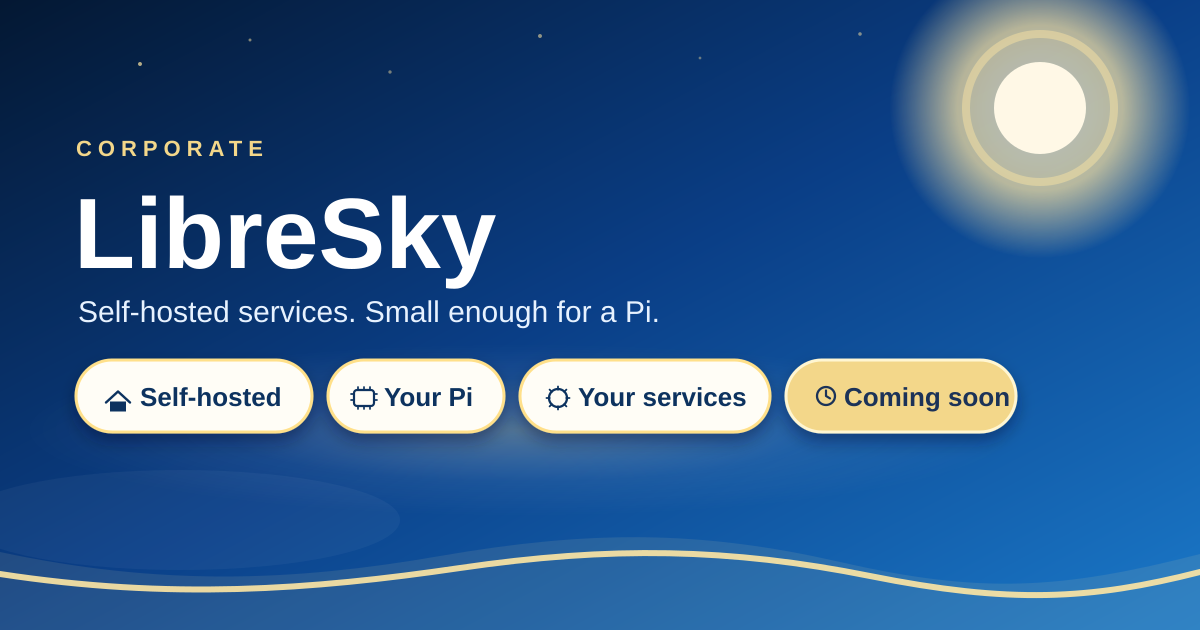
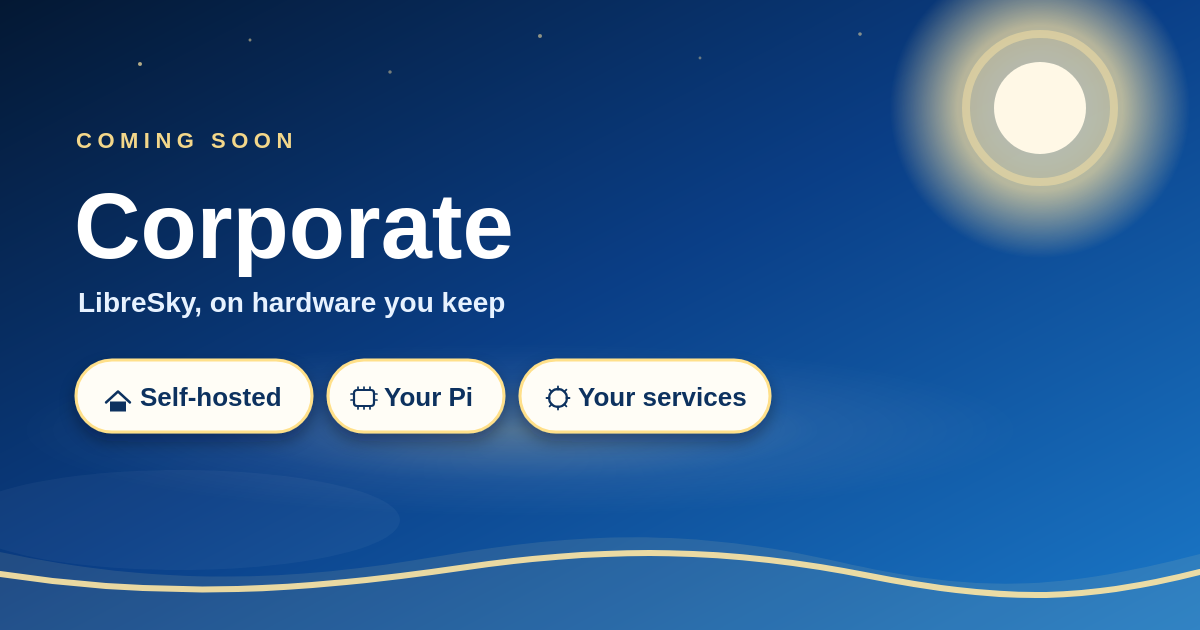
Update LibreSky

diff --git a/index.html b/index.html
@@ -108,6 +108,30 @@
     <a class="top-mark" href="#/" aria-label="LibreSky home">
       <svg class="mark" viewBox="0 0 32 32" aria-hidden="true"><rect width="32" height="32" rx="8" fill="#0085ff"/><circle cx="22" cy="11" r="3.2" fill="#fff"/><path d="M6 21c4-4 7-4 11 0s7 4 11 0" fill="none" stroke="#fff" stroke-width="2" stroke-linecap="round"/></svg>
     </a>
+    <div class="app-menu">
+      <button type="button" class="icon-btn menu-btn" id="app-menu-btn" aria-expanded="false" aria-controls="app-menu" aria-haspopup="true" aria-label="Menu" data-tip="Menu">
+        <svg class="ico" viewBox="0 0 24 24" aria-hidden="true"><path fill="none" stroke="currentColor" stroke-width="2" stroke-linecap="round" d="M4 7h16M4 12h16M4 17h16"/></svg>
+      </button>
+      <div id="app-menu" class="app-menu-pop" hidden>
+        <button type="button" id="menu-help" data-act="help">
+          <svg class="ico" viewBox="0 0 24 24" aria-hidden="true"><circle cx="12" cy="12" r="9" fill="none" stroke="currentColor" stroke-width="2"/><path fill="none" stroke="currentColor" stroke-width="2" stroke-linecap="round" d="M9.2 9.3a2.8 2.8 0 1 1 3.7 2.6c-.8.3-1.2.9-1.2 1.6V14.2"/><circle cx="11.7" cy="16.8" r="0.9" fill="currentColor"/></svg>
+          <span>Help</span>
+        </button>
+        <a id="menu-config" href="#/settings" data-nav="settings">
+          <svg class="ico" viewBox="0 0 24 24" aria-hidden="true"><path fill="currentColor" d="M4 7.2h6.1a2.4 2.4 0 0 0 4.6 0H20v2h-5.3a2.4 2.4 0 0 0-4.6 0H4v-2zm0 7.6h2.2a2.4 2.4 0 0 0 4.6 0H20v2H10.8a2.4 2.4 0 0 0-4.6 0H4v-2z"/></svg>
+          <span>Config</span>
+        </a>
+        <a id="menu-downloads" href="#/downloads" data-nav="downloads">
+          <svg class="ico" viewBox="0 0 24 24" aria-hidden="true"><path fill="none" stroke="currentColor" stroke-width="2" stroke-linecap="round" stroke-linejoin="round" d="M12 4v10M8.5 10.5 12 14l3.5-3.5M5 19h14"/></svg>
+          <span>Downloads</span>
+        </a>
+        <div class="app-menu-rule" role="separator"></div>
+        <a id="menu-support" href="#/support" data-nav="support">
+          <svg class="ico" viewBox="0 0 24 24" aria-hidden="true"><path fill="none" stroke="currentColor" stroke-width="2" stroke-linejoin="round" d="M12 20.2s-6.2-3.7-6.2-8.1A3.4 3.4 0 0 1 12 8.6a3.4 3.4 0 0 1 6.2 2.5c0 4.4-6.2 9.1-6.2 9.1z"/></svg>
+          <span>Support development</span>
+        </a>
+      </div>
+    </div>
     <button type="button" class="alpha" id="alpha-mark" aria-expanded="false">
       <span class="alpha-door" aria-hidden="true">
         <span class="alpha-door-string"></span>
@@ -127,13 +151,7 @@
       <h1 id="title">Home</h1>
     </div>
     <div class="head-actions">
-      <a class="tip" href="https://www.paypal.com/ncp/payment/4P85EQRES3RGU" target="_blank" rel="noopener noreferrer" aria-label="Buy me a coffee">
-        <svg class="ico" viewBox="0 0 24 24" aria-hidden="true"><path fill="currentColor" d="M6 6.2h9.2a.8.8 0 0 1 .8.8v.7h1.1a2.4 2.4 0 0 1 0 4.8H16v.6a4 4 0 0 1-4 4H9.2a4 4 0 0 1-4-4V7a.8.8 0 0 1 .8-.8zm10 2.2v2.6h1.1a1.3 1.3 0 0 0 0-2.6H16zM7.2 8.2v5.1a2.4 2.4 0 0 0 2.4 2.4h2.4a2.4 2.4 0 0 0 2.4-2.4V8.2H7.2zM5 19.2h14v1.6H5z"/></svg>
-        <span>Buy me a coffee</span>
-      </a>
       <button type="button" class="head-post" data-act="compose" aria-label="Post"><svg class="ico" viewBox="0 0 24 24" aria-hidden="true"><path fill="none" stroke="currentColor" stroke-width="2" stroke-linecap="round" d="M12 5v14M5 12h14"/></svg><span>Post</span></button>
-      <button type="button" class="head-help" id="head-help" data-act="help" aria-label="Help"><svg class="ico" viewBox="0 0 24 24" aria-hidden="true"><circle cx="12" cy="12" r="9" fill="none" stroke="currentColor" stroke-width="2"/><path fill="none" stroke="currentColor" stroke-width="2" stroke-linecap="round" d="M9.2 9.3a2.8 2.8 0 1 1 3.7 2.6c-.8.3-1.2.9-1.2 1.6V14.2"/><circle cx="11.7" cy="16.8" r="0.9" fill="currentColor"/></svg><span>Help</span></button>
-      <a class="head-config" id="head-config" href="#/settings" aria-label="Config"><svg class="ico" viewBox="0 0 24 24" aria-hidden="true"><path fill="currentColor" d="M4 7.2h6.1a2.4 2.4 0 0 0 4.6 0H20v2h-5.3a2.4 2.4 0 0 0-4.6 0H4v-2zm0 7.6h2.2a2.4 2.4 0 0 0 4.6 0H20v2H10.8a2.4 2.4 0 0 0-4.6 0H4v-2z"/></svg><span>Config</span></a>
     </div>
   </header>
   <div class="shell">
@@ -469,7 +487,7 @@ An AI account you save is asked from this browser.</p>
       <h3>Writing</h3>
       <p>The mic beside Post types what you say into the box. Tap it again to stop. Chrome and Edge can dictate.</p>
       <h3>Top of the page</h3>
-      <p>The LibreSky mark sits at the very left, with a red alpha beside it, then the back arrow, the section symbol, and the page name. Home, Search, and the other sections stay in the left sidebar. Buy me a coffee, Post, Help, and Config sit at the right edge. The symbol matches that section in the sidebar, such as the house for Home or the person for Profile. Every page except Home has a back arrow before the symbol. Back stays inside LibreSky and returns to the page you came from.</p>
+      <p>The LibreSky mark sits at the very left. The menu beside it holds Help, Config, and Downloads, and Support development sits under a line of its own. A red alpha sits next to that menu, then the back arrow, the section symbol, and the page name. Home, Search, and the other sections stay in the left sidebar. Post sits at the right edge. The symbol matches that section in the sidebar, such as the house for Home or the person for Profile. Every page except Home has a back arrow before the symbol. Back stays inside LibreSky and returns to the page you came from.</p>
       <a class="oss" href="https://github.com/TheWhiteWitchTM/LibreSky" target="_blank" rel="noopener noreferrer">
         <svg class="oss-mark" viewBox="0 0 24 24" aria-hidden="true"><path fill="currentColor" d="M12 2a10 10 0 0 0-3.16 19.49c.5.09.68-.22.68-.48v-1.7c-2.78.6-3.37-1.34-3.37-1.34-.45-1.16-1.11-1.47-1.11-1.47-.9-.62.07-.6.07-.6 1 .07 1.53 1.03 1.53 1.03.9 1.53 2.35 1.09 2.92.83.09-.65.35-1.09.63-1.34-2.22-.25-4.55-1.11-4.55-4.95 0-1.09.39-1.98 1.03-2.68-.1-.25-.45-1.27.1-2.64 0 0 .84-.27 2.75 1.02a9.56 9.56 0 0 1 5 0c1.91-1.29 2.75-1.02 2.75-1.02.55 1.37.2 2.39.1 2.64.64.7 1.03 1.59 1.03 2.68 0 3.85-2.34 4.7-4.57 4.95.36.31.68.92.68 1.85v2.74c0 .27.18.58.69.48A10 10 0 0 0 12 2z"/></svg>
         <span class="oss-copy">

diff --git a/js/app.js b/js/app.js
@@ -172,7 +172,7 @@ function applyA11y(prefs = a11yPrefs()) {
   else delete document.documentElement.dataset.reader;
 }
 
-const MORE_NAV = new Set(['feeds', 'feed', 'lists', 'list', 'packs', 'pack', 'downloads']);
+const MORE_NAV = new Set(['feeds', 'feed', 'lists', 'list', 'packs', 'pack']);
 
 function syncStrip(scroller) {
   const strip = scroller?.closest?.('.tab-strip');
@@ -236,9 +236,7 @@ function paintPageIcon(nav) {
   const slot = $('page-icon');
   if (!slot) return;
   const key = MORE_NAV.has(nav) ? 'more' : nav;
-  const source = key === 'settings'
-    ? $('head-config')?.querySelector('.ico')
-    : document.querySelector(`nav.left [data-nav="${CSS.escape(key)}"] .ico`);
+  const source = document.querySelector(`[data-nav="${CSS.escape(key)}"] .ico`);
   if (source) slot.replaceChildren(source.cloneNode(true));
   else slot.replaceChildren();
 }
@@ -263,18 +261,13 @@ function setChrome({ title, back = true, tabs = [], nav = '', menuAct = '', menu
     bar.innerHTML = tabStrip(tabs, { menuAct, menuLabel });
     watchStrips(bar);
   }
-  const config = $('head-config');
-  if (config) {
-    if (nav === 'settings') config.setAttribute('aria-current', 'page');
-    else config.removeAttribute('aria-current');
-  }
   const current = MORE_NAV.has(nav) ? 'more' : nav;
   paintPageIcon(nav);
   document.querySelectorAll('[data-nav]').forEach((link) => {
     const on = link.dataset.nav === current;
     link.classList.toggle('active', on);
     if (on) link.setAttribute('aria-current', 'page');
-    else if (link.id !== 'head-config') link.removeAttribute('aria-current');
+    else link.removeAttribute('aria-current');
   });
   document.title = title === 'Home' || title === 'Discover' ? 'LibreSky' : `${title} — LibreSky`;
   measureHead();
@@ -3091,6 +3084,12 @@ async function saveDesktopZip(file, button) {
   }
 }
 
+function showSupport() {
+  generation += 1;
+  setChrome({ title: 'Support', nav: 'support', back: true });
+  $('view').innerHTML = `<div class="support-page"><h2>Support development</h2><p>LibreSky is free. A payment helps the work continue: the browser client, the desktop apps, and what comes next.</p><p><a class="primary support-pay" href="https://www.paypal.com/ncp/payment/4P85EQRES3RGU" target="_blank" rel="noopener noreferrer">PayPal</a></p><p class="dim">PayPal opens in a new tab. LibreSky does not see the payment.</p></div>`;
+}
+
 function showDownloads() {
   generation += 1;
   setChrome({ title: 'Download', nav: 'downloads', back: true });
@@ -3272,6 +3271,7 @@ function goBack() {
 function route() {
   noteNav();
   closeMenu();
+  closeAppMenu();
   hideSuggest();
   closeHover();
   stopSpeech();
@@ -3298,6 +3298,7 @@ function route() {
   if (a === 'packs') return showPacks();
   if (a === 'pack' && b) return showPack(b);
   if (a === 'downloads') return showDownloads();
+  if (a === 'support') return showSupport();
   if (a === 'settings') return showSettings();
   if (a === 'profile' && b && c === 'post' && d) return showThread(b, d);
   if (a === 'profile' && b && (c === 'followers' || c === 'following')) return showPeople(b, c);
@@ -4222,6 +4223,34 @@ async function publish(event) {
   }
 }
 
+function closeAppMenu(focus) {
+  const menu = $('app-menu');
+  const button = $('app-menu-btn');
+  if (!menu || menu.hidden) return;
+  menu.hidden = true;
+  button?.setAttribute('aria-expanded', 'false');
+  if (focus) button?.focus();
+}
+
+function toggleAppMenu() {
+  const menu = $('app-menu');
+  const button = $('app-menu-btn');
+  if (!menu || !button) return;
+  if (!menu.hidden) {
+    closeAppMenu();
+    return;
+  }
+  closeMenu();
+  const mark = document.getElementById('alpha-mark');
+  if (mark?.classList.contains('is-open')) {
+    mark.classList.remove('is-open');
+    mark.setAttribute('aria-expanded', 'false');
+  }
+  hideTip();
+  menu.hidden = false;
+  button.setAttribute('aria-expanded', 'true');
+}
+
 function closeMenu() {
   const menu = $('menu');
   if (!menu) return;
@@ -4275,7 +4304,6 @@ const MORE_LINKS = [
   { id: 'go-lists', label: 'Lists' },
   { id: 'go-feeds', label: 'Feeds' },
   { id: 'go-packs', label: 'Starter packs' },
-  { id: 'go-downloads', label: 'Download apps' },
   { id: 'go-settings', label: 'Settings' },
   { id: 'go-about', label: 'About' },
   { id: 'go-privacy', label: 'Privacy' },
@@ -6804,6 +6832,12 @@ function dismissComposer(mode) {
 
 function onKey(event) {
   if (event.key === 'Escape') {
+    const appMenu = $('app-menu');
+    if (appMenu && !appMenu.hidden) {
+      event.preventDefault();
+      closeAppMenu(true);
+      return;
+    }
     const menu = $('menu');
     if (menu && !menu.hidden) {
       event.preventDefault();
@@ -6899,6 +6933,7 @@ function bind() {
   window.addEventListener('scroll', (event) => {
     closeHover();
     if (event.target?.id !== 'menu') closeMenu();
+    closeAppMenu();
     placeFresh();
   }, true);
   document.addEventListener('visibilitychange', () => {
@@ -6906,12 +6941,18 @@ function bind() {
   });
   window.addEventListener('resize', () => {
     closeMenu();
+    closeAppMenu();
     placeFresh();
     measureHead();
     document.querySelectorAll('.tab-scroller').forEach((scroller) => syncStrip(scroller));
   });
   $('menu').addEventListener('click', onMenu);
+  $('app-menu-btn')?.addEventListener('click', () => toggleAppMenu());
+  $('app-menu')?.addEventListener('click', (event) => {
+    if (event.target.closest('a, button')) closeAppMenu();
+  });
   document.addEventListener('click', (event) => {
+    if (!event.target.closest('#app-menu, #app-menu-btn')) closeAppMenu();
     if (!event.target.closest('#menu, [data-act="more"], [data-act="nav-more"], [data-act="tab-menu"], [data-act="profile-menu"], [data-act="repost"], #account-btn, #more-btn')) closeMenu();
     if (!event.target.closest('#suggest, #compose-text, #chat-text, #ai-text')) hideSuggest();
     if (!event.target.closest('#hovercard') && !actorFromLink(event.target)) closeHover();
@@ -7620,6 +7661,7 @@ function bindAlphaDoor() {
   mark.addEventListener('click', () => {
     const open = mark.classList.toggle('is-open');
     mark.setAttribute('aria-expanded', open ? 'true' : 'false');
+    if (open) closeAppMenu();
     play();
   });
   document.addEventListener('pointerdown', () => {

diff --git a/css/app.css b/css/app.css
@@ -157,6 +157,53 @@ img { max-width: 100%; }
 }
 .top-mark:hover { background: var(--hover); }
 .top-mark .mark { width: 32px; height: 32px; }
+.app-menu { position: relative; flex: none; }
+.app-top > .app-menu { z-index: 6; }
+.menu-btn {
+  width: 40px;
+  height: 40px;
+  justify-content: center;
+  padding: 0;
+  border-radius: 12px;
+}
+.menu-btn:hover,
+.menu-btn[aria-expanded="true"] { background: var(--hover); }
+.app-menu-pop {
+  position: absolute;
+  top: calc(100% + 6px);
+  left: 0;
+  z-index: 7;
+  min-width: 248px;
+  padding: 6px;
+  border: 1px solid var(--border);
+  border-radius: 14px;
+  background: var(--bg);
+  box-shadow: var(--shadow);
+}
+.app-menu-pop a,
+.app-menu-pop button {
+  display: flex;
+  align-items: center;
+  gap: 10px;
+  width: 100%;
+  padding: 10px 12px;
+  border: 0;
+  border-radius: 10px;
+  background: transparent;
+  color: inherit;
+  font: inherit;
+  font-weight: 700;
+  text-align: left;
+  white-space: nowrap;
+}
+.app-menu-pop a:hover,
+.app-menu-pop button:hover { background: var(--hover); }
+.app-menu-pop [aria-current="page"] {
+  color: var(--blue);
+  background: color-mix(in srgb, var(--blue) 10%, transparent);
+}
+.app-menu-pop .ico { width: 18px; height: 18px; flex: none; }
+.app-menu-rule { height: 1px; margin: 6px 8px; background: var(--border); }
 .alpha {
   position: relative;
   z-index: 4;
@@ -438,41 +485,24 @@ img { max-width: 100%; }
 }
 .sticky-head:has(#tabs[hidden]) { display: none; }
 .head-actions { display: flex; align-items: center; gap: 6px; flex: none; }
-.tip, .head-post, .head-help, .head-config {
+.head-post {
   display: inline-flex;
   align-items: center;
   justify-content: center;
   gap: 6px;
   flex: none;
   height: 32px;
-  border-radius: 999px;
-  font-size: 13px;
-  font-weight: 800;
-  white-space: nowrap;
-}
-.tip {
-  padding: 0 12px;
-  background: #f5c451;
-  color: #1a1203;
-}
-.tip:hover { background: #e6b43a; }
-.head-post {
   padding: 0 14px;
   border: 0;
+  border-radius: 999px;
   background: var(--blue);
   color: var(--on-blue);
   font-size: 14px;
+  font-weight: 800;
+  white-space: nowrap;
 }
 .head-post:hover { background: var(--blue-press); }
-.head-help, .head-config {
-  padding: 0 12px;
-  border: 1px solid var(--border);
-  background: transparent;
-  color: var(--text);
-}
-.head-help:hover, .head-config:hover { background: var(--hover); }
-.head-config[aria-current="page"] { border-color: var(--blue); color: var(--blue); }
-.tip .ico, .head-post .ico, .head-help .ico, .head-config .ico { width: 16px; height: 16px; }
+.head-post .ico { width: 16px; height: 16px; }
 .tab-strip {
   display: flex;
   align-items: stretch;
@@ -1407,6 +1437,10 @@ dialog::backdrop { background: rgba(0, 0, 0, 0.5); }
 .download-notes { padding-left: 18px; }
 .download-page { padding: 8px 16px 24px; }
 .download-page .download-btn { flex: none; min-width: 120px; }
+.support-page { padding: 8px 16px 32px; max-width: 40rem; }
+.support-page h2 { margin: 12px 0 8px; font-size: 22px; }
+.support-page p { margin: 0 0 12px; }
+.support-pay { display: inline-flex; align-items: center; margin: 4px 0 12px; text-decoration: none; }
 .gate-brand { display: flex; align-items: center; gap: 10px; font-size: 22px; font-weight: 800; letter-spacing: -0.04em; }
 .gate-brand span { color: var(--blue); }
 .gate-brand .mark { width: 36px; height: 36px; }
@@ -2304,8 +2338,8 @@ html[data-reader="on"] .post .sr-name {
 }
 
 @media (max-width: 640px) {
-  .tip span, .head-post span, .head-help span, .head-config span { display: none; }
-  .tip, .head-post, .head-help, .head-config { width: 32px; padding: 0; }
+  .head-post span { display: none; }
+  .head-post { width: 32px; padding: 0; }
 }
 @media (max-width: 720px) {
   .shell { display: block; }

diff --git a/sw.js b/sw.js
@@ -1,4 +1,4 @@
-const CACHE = 'libresky-2026-10-21-find';
+const CACHE = 'libresky-2026-10-21-menu';
 
 const SHELL = [
   './',

diff --git a/README.md b/README.md
@@ -41,6 +41,6 @@ The pages and scripts are about 1.6 MB. A small Raspberry Pi can host them. The 
 
 MIT license. The source is [on GitHub](https://github.com/TheWhiteWitchTM/LibreSky). Read it, file an issue, or fork it.
 
-[![LibreSky Corporate. Highlighted features: self-hosted, your Pi, your services. Coming soon.](assets/banner-corporate.png)](CORPORATE.md)
+[![LibreSky Corporate, coming soon. Self-hosted, your Pi, and your services.](assets/banner-corporate.png)](CORPORATE.md)
 
 [LibreSky Corporate](CORPORATE.md) is the custom edition. You host the services. A small Pi can hold the client. That one is coming soon.

diff --git a/CORPORATE.md b/CORPORATE.md
@@ -1,6 +1,6 @@
 # LibreSky Corporate
 
-![LibreSky Corporate. Highlighted features: self-hosted, your Pi, your services. Coming soon.](assets/banner-corporate.png)
+![LibreSky Corporate, coming soon. Self-hosted, your Pi, and your services.](assets/banner-corporate.png)
 
 **Coming soon.**
 
